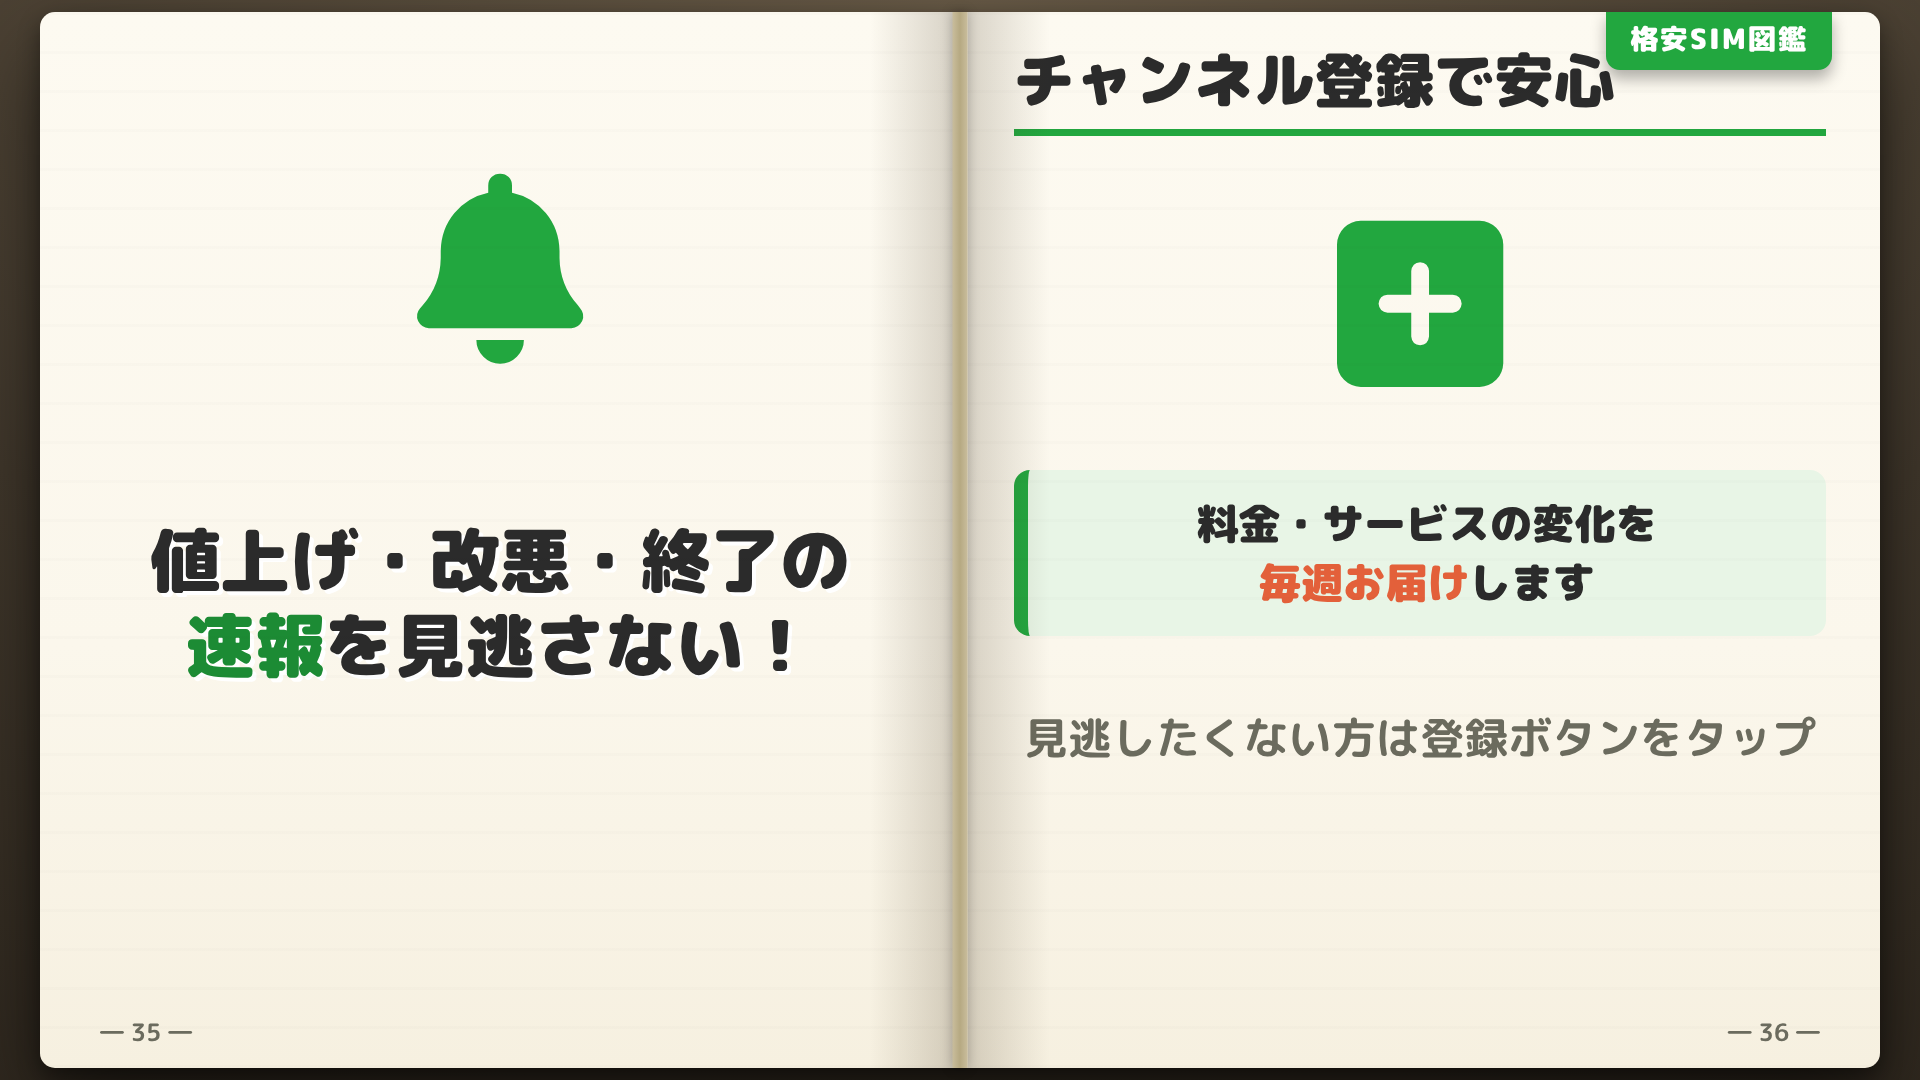
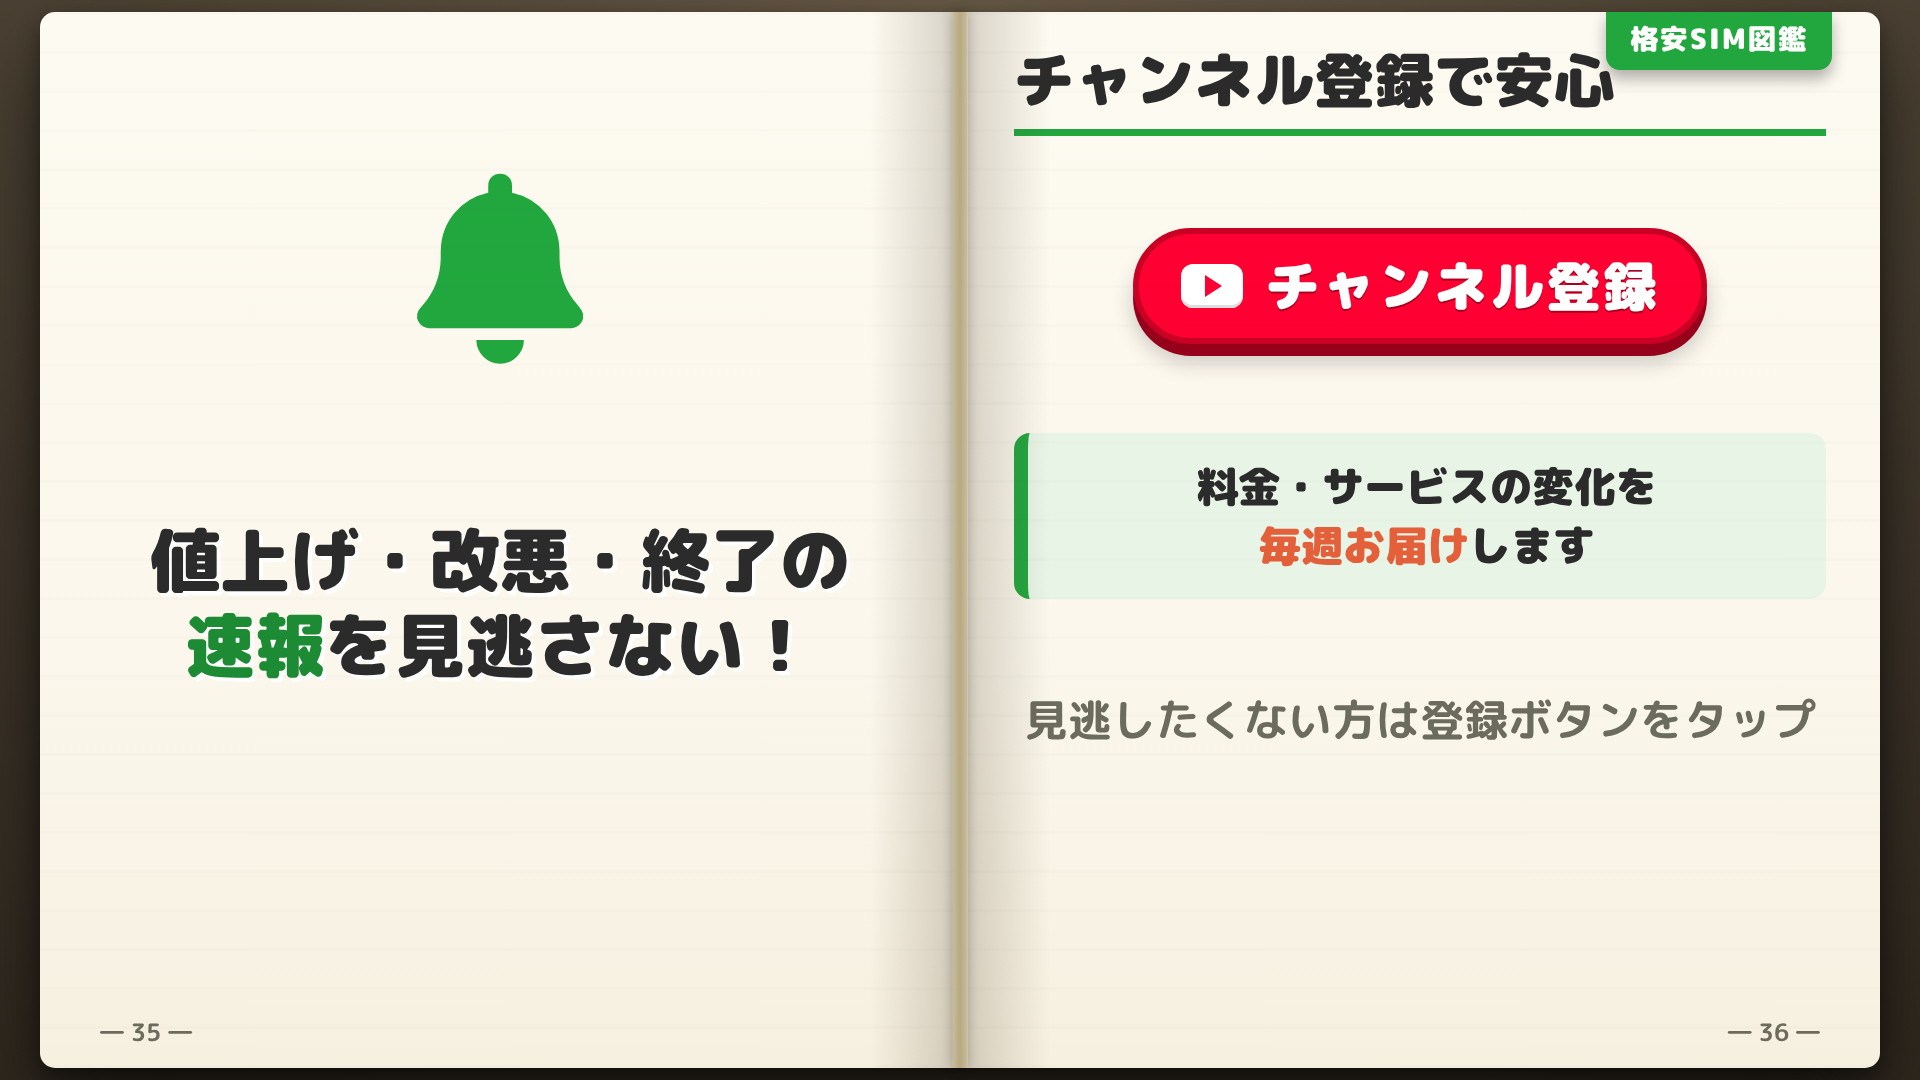
改修

diff --git a/slides.html b/slides.html
@@ -24,6 +24,7 @@ body{--primary-color:#C8102E;--accent-red:#E53935;--text-dark:#212121}
 .dual-sim-esim-sheet{flex:1;margin:12px 0}.dual-sim-esim-sheet tr{height:25%}
 .full-sheet{height:100%}.full-sheet tr{height:33%}
 .network-pair{display:flex;align-items:center;justify-content:center;gap:30px;padding:18px 8px}.network-pair img{width:235px;height:76px;object-fit:contain}.network-pair i{font-size:52px;color:var(--brand)}
+.youtube-subscribe{display:inline-flex;align-self:center;align-items:center;justify-content:center;gap:22px;min-width:530px;padding:25px 42px;box-sizing:border-box;border:6px solid #c90024;border-radius:999px;background:#ff0033;color:#fff;font-size:54px;font-weight:900;line-height:1;letter-spacing:.04em;text-shadow:0 2px 0 #a9001f;box-shadow:0 12px 0 #97001b,0 18px 22px #0003}.youtube-play{position:relative;display:block;width:62px;height:44px;flex:0 0 auto;border-radius:12px;background:#fff;box-shadow:inset 0 -3px 0 #ddd}.youtube-play::after{content:"";position:absolute;left:24px;top:11px;border-top:11px solid transparent;border-bottom:11px solid transparent;border-left:17px solid #ff0033}
 .fee-flow{display:flex;align-items:center;justify-content:center;gap:16px;flex-wrap:wrap;padding:28px 18px;border:5px solid var(--brand);border-radius:22px;background:var(--brand-soft);font-size:34px;font-weight:900}.fee-flow strong{font-size:56px;color:var(--con);white-space:nowrap}.fee-flow .free{color:var(--brand-deep)}.fee-flow i{font-size:40px;color:var(--brand-deep)}
 .sim-equation{display:flex;align-items:center;justify-content:center;gap:14px;flex-wrap:wrap;padding:24px 12px;border:5px solid var(--brand);border-radius:22px;background:var(--brand-soft);font-size:38px;font-weight:900;text-align:center;line-height:1.2}.sim-equation span{padding:14px 16px;background:#fff;border-radius:15px;box-shadow:0 3px 8px #0002}.sim-equation small{font-size:30px;color:var(--ink-soft)}.sim-equation b{font-size:52px;color:var(--brand-deep)}.sim-equation strong{font-size:58px;color:var(--con)}
 </style></head><body>
@@ -101,7 +102,7 @@ body{--primary-color:#C8102E;--accent-red:#E53935;--text-dark:#212121}
   <div class="book"><div class="spine"></div><div class="page left"><div class="page-head">詳しく解説した過去動画</div><div class="page-body"><div class="visual"><img src="public/images/thumbnails/【裏技】mineo歴8年が教える「実質使い放題」の極意！契約前に知らないと損する5つの節約術_サムネ.png" alt="過去動画のサムネイル"></div></div><span class="page-no">― 33 ―</span></div><div class="page right"><span class="index-tab">格安SIM図鑑</span><div class="page-body"><div class="bigicon"><i class="fa-solid fa-play"></i></div><div class="big-title cta-title">mineoの節約術も<br>チェック！</div><div class="lead" style="text-align:center">気になる方は<br>こちらもチェック！</div></div><span class="page-no">― 34 ―</span></div></div>
 </div><!-- Slide ID: 13-4 -->
 <div class="slide-container" style="--brand:#22a73f;--brand-deep:#1c8b34;--brand-soft:#e8f5e6">
-  <div class="book"><div class="spine"></div><div class="page left"><div class="page-body"><div class="bigicon"><i class="fa-solid fa-bell"></i></div><div class="big-title cta-title">値上げ・改悪・終了の<br><span class="em">速報</span>を見逃さない！</div></div><span class="page-no">― 35 ―</span></div><div class="page right"><span class="index-tab">格安SIM図鑑</span><div class="page-head">チャンネル登録で安心</div><div class="page-body"><div class="bigicon"><i class="fa-solid fa-square-plus"></i></div><div class="lead" style="text-align:center">料金・サービスの変化を<br><span class="em">毎週お届け</span>します</div><div class="note" style="text-align:center">見逃したくない方は登録ボタンをタップ</div></div><span class="page-no">― 36 ―</span></div></div>
+  <div class="book"><div class="spine"></div><div class="page left"><div class="page-body"><div class="bigicon"><i class="fa-solid fa-bell"></i></div><div class="big-title cta-title">値上げ・改悪・終了の<br><span class="em">速報</span>を見逃さない！</div></div><span class="page-no">― 35 ―</span></div><div class="page right"><span class="index-tab">格安SIM図鑑</span><div class="page-head">チャンネル登録で安心</div><div class="page-body"><div class="youtube-subscribe" role="img" aria-label="チャンネル登録ボタン"><span class="youtube-play" aria-hidden="true"></span><span>チャンネル登録</span></div><div class="lead" style="text-align:center">料金・サービスの変化を<br><span class="em">毎週お届け</span>します</div><div class="note" style="text-align:center">見逃したくない方は登録ボタンをタップ</div></div><span class="page-no">― 36 ―</span></div></div>
 </div><!-- Slide ID: 14-0 -->
 <div class="slide-container" style="--brand:#C8102E;--brand-deep:#9a0c23;--brand-soft:#fde3e7">
   <div class="book"><div class="spine"></div><div class="page left"><div class="divider"><div class="kicker">CHAPTER</div><div class="num">4</div><div class="seal">FILE No.04</div></div></div><div class="page right"><span class="index-tab">格安SIM図鑑</span><div class="page-body center"><div class="big-title">始める前の<br>注意点</div><div class="lead" style="text-align:center">楽天モバイルを活かす<br>2枚持ちのポイントを解説</div></div></div></div>

diff --git a/scripts/generate_long43_slides.py b/scripts/generate_long43_slides.py
@@ -258,7 +258,7 @@ def channel_principle(slide_id: str, page_no: int) -> str:
 def special(slide_id: str, display: str, page_no: int) -> str:
     if slide_id == '13-4':
         left = page('left', '', '<div class="bigicon"><i class="fa-solid fa-bell"></i></div><div class="big-title cta-title">値上げ・改悪・終了の<br><span class="em">速報</span>を見逃さない！</div>', page_no)
-        right = page('right', 'チャンネル登録で安心', '<div class="bigicon"><i class="fa-solid fa-square-plus"></i></div><div class="lead" style="text-align:center">料金・サービスの変化を<br><span class="em">毎週お届け</span>します</div><div class="note" style="text-align:center">見逃したくない方は登録ボタンをタップ</div>', page_no + 1, tab=True)
+        right = page('right', 'チャンネル登録で安心', '<div class="youtube-subscribe" role="img" aria-label="チャンネル登録ボタン"><span class="youtube-play" aria-hidden="true"></span><span>チャンネル登録</span></div><div class="lead" style="text-align:center">料金・サービスの変化を<br><span class="em">毎週お届け</span>します</div><div class="note" style="text-align:center">見逃したくない方は登録ボタンをタップ</div>', page_no + 1, tab=True)
         return spread(slide_id, left, right, GREEN)
     if slide_id == '19':
         left = page('left', '', '<div class="bigicon"><i class="fa-solid fa-circle-info"></i></div><div class="big-title">ご注意</div>', page_no)
@@ -376,6 +376,7 @@ body{{--primary-color:#C8102E;--accent-red:#E53935;--text-dark:#212121}}
 .dual-sim-esim-sheet{{flex:1;margin:12px 0}}.dual-sim-esim-sheet tr{{height:25%}}
 .full-sheet{{height:100%}}.full-sheet tr{{height:33%}}
 .network-pair{{display:flex;align-items:center;justify-content:center;gap:30px;padding:18px 8px}}.network-pair img{{width:235px;height:76px;object-fit:contain}}.network-pair i{{font-size:52px;color:var(--brand)}}
+.youtube-subscribe{{display:inline-flex;align-self:center;align-items:center;justify-content:center;gap:22px;min-width:530px;padding:25px 42px;box-sizing:border-box;border:6px solid #c90024;border-radius:999px;background:#ff0033;color:#fff;font-size:54px;font-weight:900;line-height:1;letter-spacing:.04em;text-shadow:0 2px 0 #a9001f;box-shadow:0 12px 0 #97001b,0 18px 22px #0003}}.youtube-play{{position:relative;display:block;width:62px;height:44px;flex:0 0 auto;border-radius:12px;background:#fff;box-shadow:inset 0 -3px 0 #ddd}}.youtube-play::after{{content:"";position:absolute;left:24px;top:11px;border-top:11px solid transparent;border-bottom:11px solid transparent;border-left:17px solid #ff0033}}
 .fee-flow{{display:flex;align-items:center;justify-content:center;gap:16px;flex-wrap:wrap;padding:28px 18px;border:5px solid var(--brand);border-radius:22px;background:var(--brand-soft);font-size:34px;font-weight:900}}.fee-flow strong{{font-size:56px;color:var(--con);white-space:nowrap}}.fee-flow .free{{color:var(--brand-deep)}}.fee-flow i{{font-size:40px;color:var(--brand-deep)}}
 .sim-equation{{display:flex;align-items:center;justify-content:center;gap:14px;flex-wrap:wrap;padding:24px 12px;border:5px solid var(--brand);border-radius:22px;background:var(--brand-soft);font-size:38px;font-weight:900;text-align:center;line-height:1.2}}.sim-equation span{{padding:14px 16px;background:#fff;border-radius:15px;box-shadow:0 3px 8px #0002}}.sim-equation small{{font-size:30px;color:var(--ink-soft)}}.sim-equation b{{font-size:52px;color:var(--brand-deep)}}.sim-equation strong{{font-size:58px;color:var(--con)}}
 </style></head><body>\n{''.join(deck)}\n</body></html>'''
